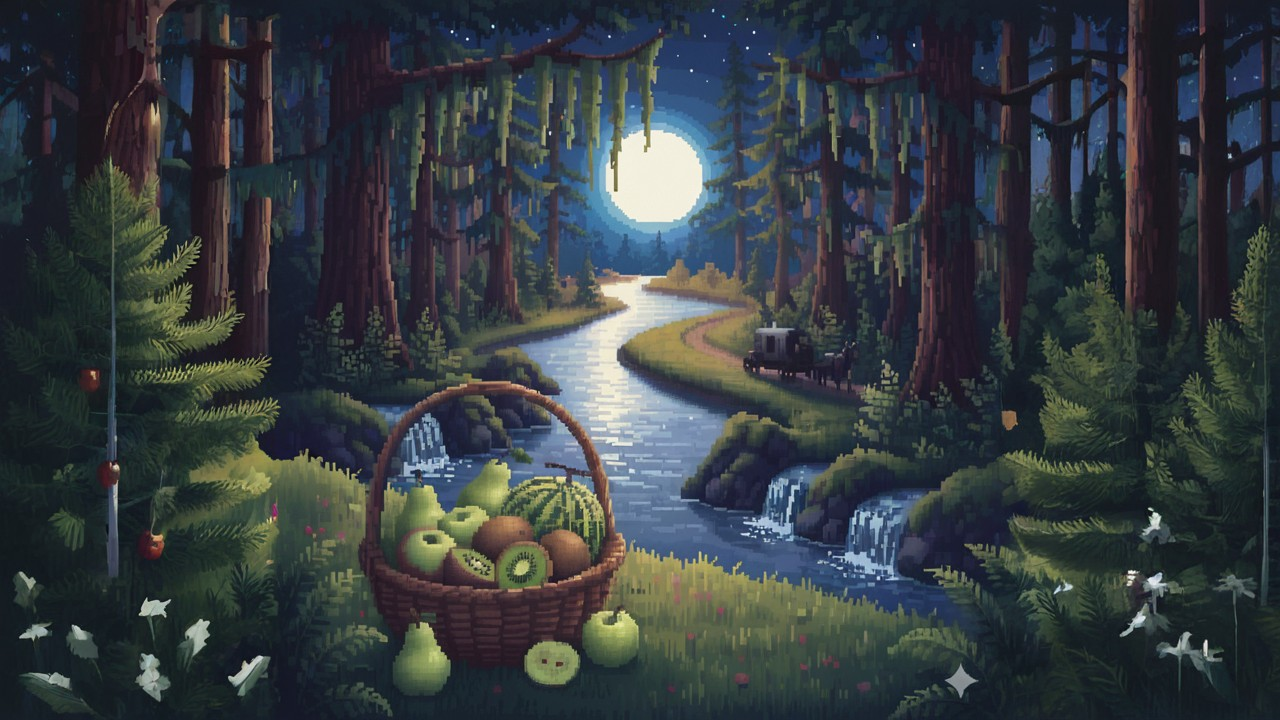
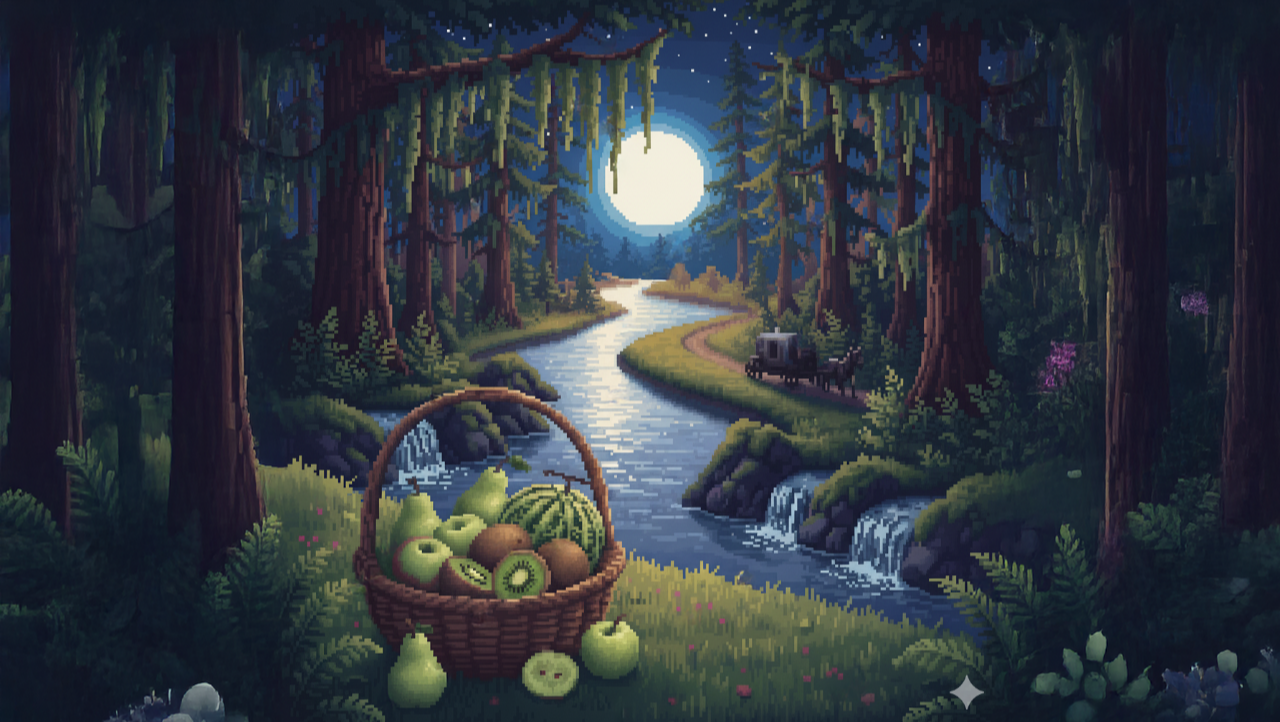
Finished resizing background for all levels. Finished titles in top bar. Changed level 1 top bar to white images.

diff --git a/fruidle.html b/fruidle.html
@@ -58,7 +58,7 @@
     <section id="Level_1" class="page">
 
         <div class="Top_Bar">
-        <img class="help" title="How to Play" src="Fruidle_Images/question_mark_button.png"> <img class="home" title="Homepage" onclick="startlevel(0)" src="Fruidle_Images/home_button.png">
+        <img class="help" title="How to Play" src="Fruidle_Images/white_question_mark_button.png"> <img class="home" title="Homepage" onclick="startlevel(0)" src="Fruidle_Images/white_home_button.png">
         </div>
 
         <h2>Level 1</h2>
@@ -170,7 +170,7 @@
     <section id="Level_3" class="page">
 
         <div class="Top_Bar">
-        <img class="help" src="Fruidle_Images/question_mark_button.png"> <img class="home" onclick="startlevel(0)" src="Fruidle_Images/home_button.png">
+            <img class="help" title="How to Play" src="Fruidle_Images/question_mark_button.png"> <img class="home" title="Homepage" onclick="startlevel(0)" src="Fruidle_Images/home_button.png">
         </div>
 
         <h2>Level 3</h2>